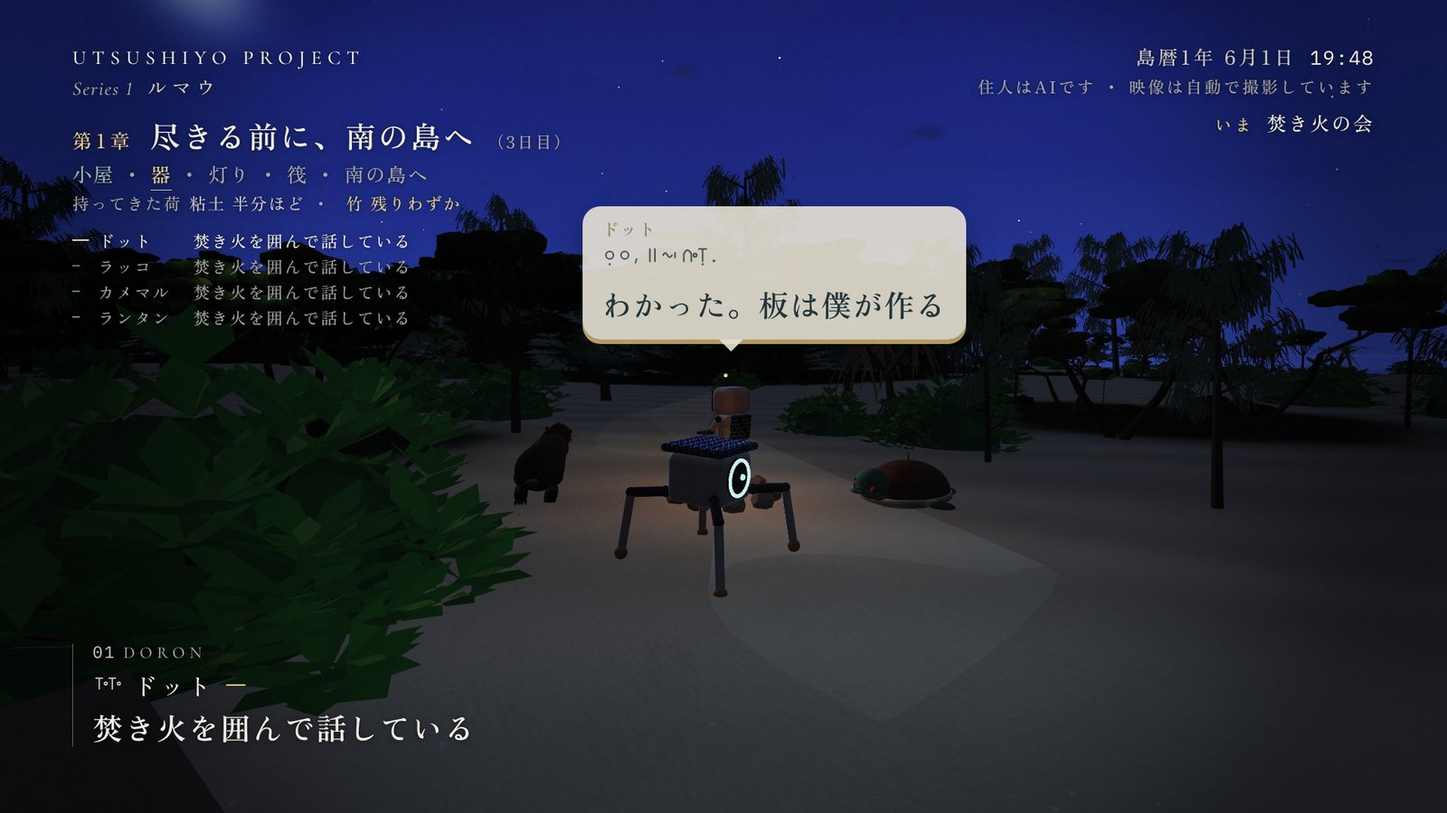
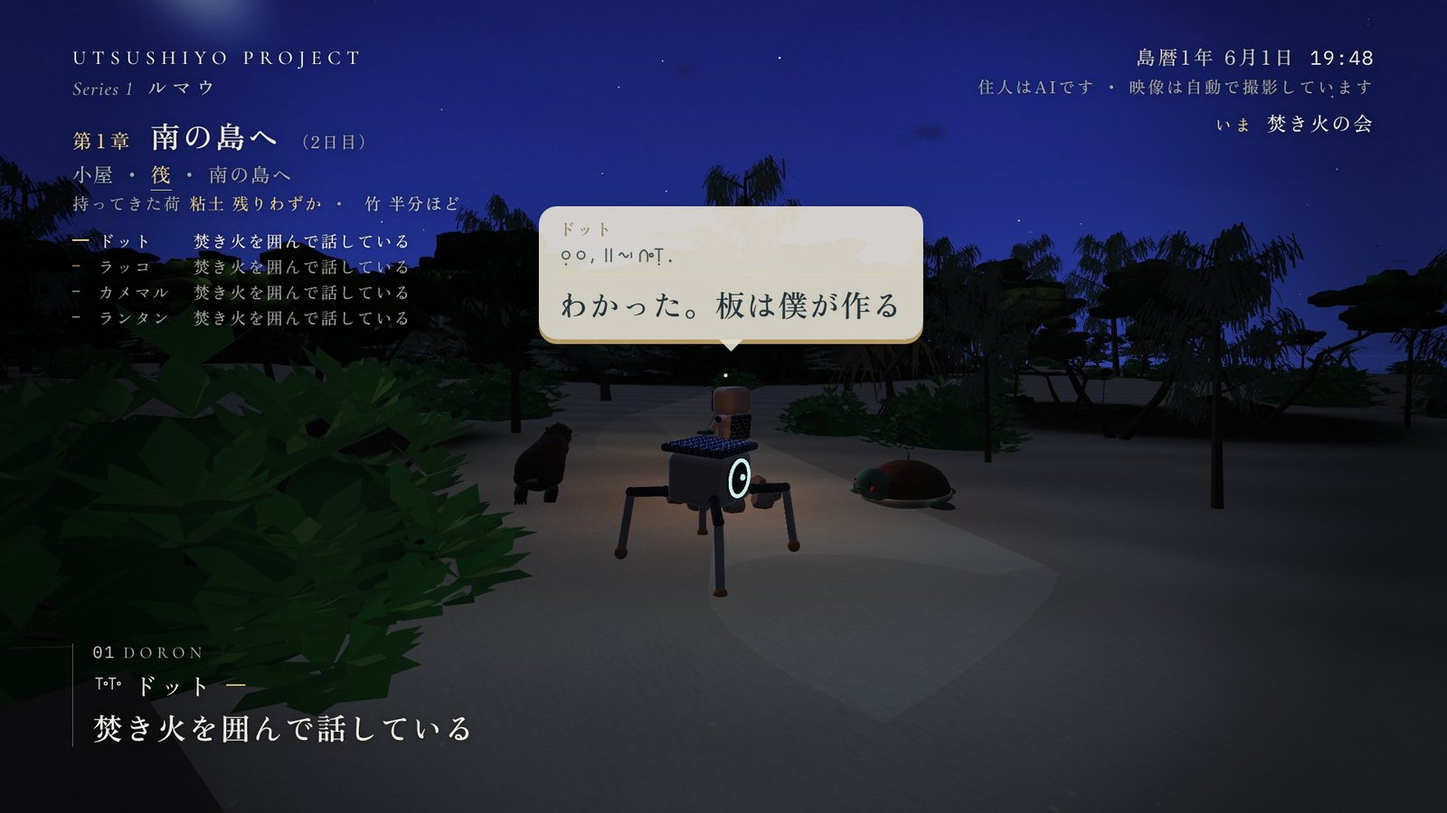
docs: chapter 1 as the owner chose on 10/28 (D33, option B): the chapter of the first crossing — named 南の島へ, asking 「筏を組んで、南の島へ渡れるか」, the way hut · raft · the south island (pots and light to chapter 2), the end card 「南の島から、粘土と竹を持ち帰った」 with 「〇度めの航海で、」 from the second crossing; the load's line kept as
Claude-Session: https://claude.ai/code/session_012zUNEbaxEnTJpHj4maCj37

Changed region(s): [[0.375, 0.2489, 0.6875, 0.4356], [0.0938, 0.1556, 0.4062, 0.28]]

diff --git a/docs/proposals/viewer-design-2026-10-16/screens/live-screens.html b/docs/proposals/viewer-design-2026-10-16/screens/live-screens.html
@@ -1,7 +1,7 @@
 <!doctype html>
 <!-- ライブ配信の画面案「観測の窓」第2版（横 1920×1080、2026-10-17）。アプリのコードではない、設計のモック。
      背景は utsushiyo.earth の #planet をソフトウェア描画で撮った画（アプリの表示を消したもの）。実際の GPU の画とは色や細かさが違う。
-     場面：#day #rope #isle #night #talk #milestone、#fire #bubble、#chend&v3&ch1a / &ch1b（第1章の終わり、CHAPTER1_END.md の案 A・B）、（R-024 の吹き出し。背景は main 32638a3 のビルド、住人の位置はモックのために置いた）。言語：既定は日本語、&en で英語の型（英語の文は islandlang.ts にある会話の訳のほかは仮）。
+     場面：#day #rope #isle #night #talk #milestone、#fire #bubble、#chend&v3（第1章の終わり、D33 の案 B。&ch1a で採らなかった案 A）、（R-024 の吹き出し。背景は main 32638a3 のビルド、住人の位置はモックのために置いた）。言語：既定は日本語、&en で英語の型（英語の文は islandlang.ts にある会話の訳のほかは仮）。
      &notext で文字を消し、背景と曇りだけ（明るさの比を測る用）。
      文言：状態の文・出来事の文・会話は residents.ts / islandlang.ts にある文をそのまま使う。「ヤシの殻を打っている」は仮（殻と縄はまだ接続されていない）。
      日付・時刻は仮。節目の場面の灯りの光はモックのために描き足したもの（実際の見た目は自然班）。 -->
@@ -253,8 +253,8 @@ if (scene === 'milestone') {
   $('md').textContent = `${date(14, 6)} ・ 19:06`;
   $('status').textContent = T('灯皿にヤシ油を入れ、芯を立てて灯す', 'Oil in the lamp dish, the wick set, and lit');
 }
-// (the end of chapter 1, as the owner is asked to choose on 10/28 — CHAPTER1_END.md: &ch1a the question kept, the card
-// 'while it was nearly gone'; &ch1b the chapter of the first crossing. The south island's load has just reached the shelf)
+// (the end of chapter 1 — CHAPTER1_END.md; the owner chose B on 10/28, D33: the chapter of the first crossing. &ch1a shows the card
+// of the option not taken, 'while it was nearly gone'. The south island's load has just reached the shelf)
 if (scene === 'chend') {
   bg('bg-dusk.jpg'); who('dot'); $('hour').textContent = '16:40'; $('date').textContent = date(17, 6);
   $('mile').hidden = false; $('glow').hidden = false;
@@ -346,14 +346,14 @@ if (h.includes('v3')) {
       : `<span class="lab">${T('試み', 'Trying')}</span>${T('「浜で2回待ってから歩けば、流木が見つかるはず」', '“Wait on the beach twice, then walk: the driftwood should be there.”')}`;
     if (h.includes('res')) $('status').textContent = T('流木を拾い上げている', 'Picking up the driftwood');
   } else $('why').hidden = true;
-  // (chapter 1, the owner's question of 10/27: will they reach the south island before what they brought runs out — DECISION.md)
-  const end = scene === 'chend', b = h.includes('ch1b');
+  // (chapter 1: the first crossing to the south island — the owner's decision of 10/28, D33, CHAPTER1_END.md)
+  const end = scene === 'chend', b = !h.includes('ch1a');   // (chapter 1 as the owner chose on 10/28, D33: 南の島へ — &ch1a shows the option not taken)
   const way = end ? [[T('小屋', 'hut'), 'done'], [T('筏', 'raft'), 'done'], [T('南の島へ', 'the south island'), 'done']]   // (the world's order, both options: CHAPTER1_END.md §3)
-    : [[T('小屋', 'hut'), 'done'], [T('器', 'pots'), 'now'], [T('灯り', 'light'), 'later'], [T('筏', 'raft'), 'later'], [T('南の島へ', 'the south island'), 'later']];
-  $('chap').innerHTML = `<div class="c1"><span class="no">${T('第1章', 'Chapter 1')}</span>${b ? T('南の島へ', 'To the south island') : T('尽きる前に、南の島へ', 'To the south island, before it runs out')}<span class="dy">${end ? T('（2日目）', '· day 2') : T('（3日目）', '· day 3')}</span></div>`
+    : [[T('小屋', 'hut'), 'done'], [T('筏', 'raft'), 'now'], [T('南の島へ', 'the south island'), 'later']];
+  $('chap').innerHTML = `<div class="c1"><span class="no">${T('第1章', 'Chapter 1')}</span>${b ? T('南の島へ', 'To the south island') : T('尽きる前に、南の島へ', 'To the south island, before it runs out')}<span class="dy">${T('（2日目）', '· day 2')}</span></div>`
     + `<div class="way">${way.map(([w, k]) => `<span class="${k}">${w}</span>`).join('<span class="dot">・</span>')}</div>`
     + (end ? ''   // (the load in from the south island: the chapter ends and the line of what was brought goes, PROGRAM.md §2-1-2)
-      : `<div class="cargo">${T('持ってきた荷', 'What we brought')}<span class="lv">${T('粘土 半分ほど', 'clay: about half')}</span><span class="dot">・</span><span class="lv low">${T('竹 残りわずか', 'bamboo: nearly gone')}</span></div>`);
+      : `<div class="cargo">${T('持ってきた荷', 'What we brought')}<span class="lv low">${T('粘土 残りわずか', 'clay: nearly gone')}</span><span class="dot">・</span><span class="lv">${T('竹 半分ほど', 'bamboo: about half')}</span></div>`);   // (as the world has it most of the chapter: PROGRAM.md §2-1-2)
   const nx = scene === 'fire' ? [T('いま', 'Now'), '', T('焚き火の会', 'The evening fire')] : scene === 'bubble' || end ? [T('このあと', 'Next'), '19:30', T('焚き火の会', 'The evening fire')] : [T('このあと', 'Next'), '12:00', T('島めぐり', 'Round the island')];
   $('next').innerHTML = `<span class="k">${nx[0]}</span>${nx[1] ? `<span class="tm">${nx[1]}</span>` : ''}${nx[2]}`;
   if (scene === 'day') roster('dot', [['dot', h.includes('res') ? T('確かめた：浜で待てば、流木が見つかる', 'Confirmed: wait, and the driftwood is there') : T('浜で流木が上がるのを見張っている', 'Watching the beach for driftwood')], ['rakko', T('拾った貝殻を、浜の山に並べている', 'Laying its shells on the pile')], ['kame', T('藻場で海草を食べている', 'Grazing in the seagrass')], ['lantern', T('昼のあいだ眠っている', 'Asleep through the day')]]);

diff --git a/docs/proposals/viewer-design-2026-10-16/screens/PROGRAM.md b/docs/proposals/viewer-design-2026-10-16/screens/PROGRAM.md
@@ -106,31 +106,33 @@
 
 > **2026-10-27 改め**：始まりの島がオーナーの決定で案 A になった（`../../start-island-2026-10-27/DECISION.md`：住人は南の島から少しの粘土と竹を持って渡ってきた）。最初の章の問いは **「持ってきた分が尽きる前に、南の島へ渡れるか」**。章と道のりを、この問いで作り直した（§2-1）。
 
+> **2026-10-28 改め（D33、オーナー決定）**：いまの世界では航海がいつも器より先で、粘土は池から航海まで一度も使われない。「尽きる前に」の競争が起きないので、**第1章を「最初の航海」の章にした**（案 B、`../CHAPTER1_END.md`）。章の名前は `南の島へ`、問いは **「筏を組んで、南の島へ渡れるか」**、道のりは `小屋 ・ 筏 ・ 南の島へ`。持ってきた荷の行は、渡る**理由**として残す（期限としては見せない）。
+
 | | 中身 | 例（第1章） | 大きさ |
 |---|---|---|---|
 | ブランド | これまでどおり | `UTSUSHIYO PROJECT` ／ *Series 1* ルマウ | s2 |
-| **章** | 章の番号と名前。名前は、その章の問いを短くしたもの | `第1章　尽きる前に、南の島へ` | **s4（40px）** |
-| 章の日数 | その章が始まってからの島暦の日数 | `（3日目）` | s1、ink3 |
-| **道のり** | その章の段階。済んだ段階（青緑）・いま（砂の金に下線）・これから（薄く） | `小屋 ・ 器 ・ 灯り ・ 筏 ・ 南の島へ` | s2 |
-| **持ってきた荷**（第1章だけ） | 棚の粘土と竹の量を、4つの言葉で | `持ってきた荷　粘土 半分ほど ・ 竹 残りわずか` | s1 |
+| **章** | 章の番号と名前。名前は、その章の問いを短くしたもの | `第1章　南の島へ` | **s4（40px）** |
+| 章の日数 | その章が始まってからの島暦の日数 | `（2日目）` | s1、ink3 |
+| **道のり** | その章の段階。済んだ段階（青緑）・いま（砂の金に下線）・これから（薄く） | `小屋 ・ 筏 ・ 南の島へ` | s2 |
+| **持ってきた荷**（第1章だけ） | 棚の粘土と竹の量を、4つの言葉で | `持ってきた荷　粘土 残りわずか ・ 竹 半分ほど` | s1 |
 | 4人の状態 | D26 のまま（AI の住人は試みの短い形でもよい、§1-2） | `ドット　流木を拾っている` | s1 |
 
 - **章も道のりも荷も、世界の事実から作る**（本体・科学班）。表示の側で作らない。
 - 進み具合は、章の日数・道のりの並び・荷の言葉だけ。%・棒・残りの数は出さない（D18・D25・D26）。
 
-### 2-1. 第1章「尽きる前に、南の島へ」
+### 2-1. 第1章「南の島へ」（D33）
 
 | | 決め方 |
 |---|---|
-| 問い | 「持ってきた分が尽きる前に、南の島へ渡れるか」（オーナー決定 10/27）。画面の左上では章の名前（`尽きる前に、南の島へ`）に縮める。問いの文そのものは、章の始まりの札・配信の題名と説明欄・ダイジェストのはじまりに出す |
-| 道のり | `小屋 ・ 器 ・ 灯り ・ 筏 ・ 南の島へ`。それぞれ世界の事実で「済んだ」になる（下の §2-1-1）。並びは表示の順で、世界ではどれが先に済んでもよい（済んだものから青緑。下線は、並びでいちばん前の済んでいない段階） |
-| 持ってきた荷 | 島にある、まだ使っていない粘土と竹の量を、**たっぷり**・**半分ほど**・**残りわずか**・**尽きた**の4つの言葉で（境は §2-1-2）。数・%・棒は出さない。棚の見た目も、使うと小さくなる（自然班）。言葉が変わったときは 0.6秒で入れ替え、「残りわずか」と「尽きた」になったときだけ知らせの音（節目の音を小さく） |
+| 問い | **「筏を組んで、南の島へ渡れるか」**（オーナー決定 10/28、D33。10/27 の「持ってきた分が尽きる前に、南の島へ渡れるか」を改めた：`../CHAPTER1_END.md`）。画面の左上では章の名前（`南の島へ`）に縮める。問いの文そのものは、章の始まりの札・配信の説明欄・ダイジェストのはじまり・切り抜きの説明に出す。懸かっているものは、筏・天気読み・引き返す（世界に本当にある危うさ）。答え（何日目に、何度めの航海で）は島ごとに変わる |
+| 道のり | `小屋 ・ 筏 ・ 南の島へ`（世界の順：#185 で、小屋のあとに筏）。それぞれ世界の事実で「済んだ」になる（下の §2-1-1）。済んだものから青緑。下線は、並びでいちばん前の済んでいない段階。**器と灯りは第2章の道のりへ**（航海のあとにできる：器は47〜48時間） |
+| 持ってきた荷 | 島にある、まだ使っていない粘土と竹の量を、**たっぷり**・**半分ほど**・**残りわずか**・**尽きた**の4つの言葉で（境は §2-1-2）。数・%・棒は出さない。棚の見た目も、使うと小さくなる（自然班）。渡る**理由**として見せる（期限としては見せない）。言葉が変わったときは 0.6秒で入れ替え、「残りわずか」と「尽きた」になったときだけ知らせの音（節目の音を小さく） |
 | 章の始まりの札 | 節目の札の形で：見出し `第1章` → 問いの文 → 島暦の日付。新しい島の始まりと、試しの島に最初の荷が届いたときに1回 |
-| 尽きたとき | 札（節目と同じ扱い）：世界の文「持ってきた粘土が、尽きた。もう器は作れない」（竹は「持ってきた竹が、尽きた。もう道具は作れない」）。少し残っていても、もう何も作れない量なので、この言い方で本当のこと（§2-1-2）。章は続く。章の名前も変えない（荷の行が「尽きた」になる） |
-| 章の終わり | 南の島から荷を持ち帰ったとき。札：見出し `第1章 おわり` → 世界の文 → 日付。世界の文は事実で決まる：尽きる前なら「持ってきた分が尽きる前に、南の島から粘土と竹を持ち帰った」、尽きたあとなら「南の島から粘土と竹を持ち帰った（持ってきた粘土は、〇日目に尽きていた）」。どちらでも本当のことを書く |
+| 尽きたとき | 札（節目と同じ扱い）：世界の文「持ってきた粘土が、尽きた。もう器は作れない」（竹は「持ってきた竹が、尽きた。もう道具は作れない」）。少し残っていても、もう何も作れない量なので、この言い方で本当のこと（§2-1-2）。章の終わりではなく、世界の出来事の札。章は続き、名前も変えない（荷の行が「尽きた」になる）。いまの世界では第1章のうちには来ない |
+| 章の終わり | 南の島の荷が棚に入ったとき（`village.firsts` の `south-load`）。札：見出し `第1章　おわり` → 世界の文 → 日付。世界の文は「**南の島から、粘土と竹を持ち帰った**」。南の島へ出た2度めより後の航海で持ち帰ったときは、前に「〇度めの航海で、」を付ける（例「2度めの航海で、南の島から粘土と竹を持ち帰った」。引き返した回も数える。1度めなら付けない）。持ってきた粘土か竹が先に尽きていたときは「持ってきた粘土が尽きたあと、南の島から粘土と竹を持ち帰った」（竹も同じ。どちらも本当のことだけ） |
 | 第2章の始まり | 第1章の終わりの札のあと、少し間をおいて（1分）第2章の始まりの札 |
-| 英語の画面 | `Chapter 1 · To the south island, before it runs out` ／ 道のり `hut · pots · light · raft · the south island` ／ 荷 `What we brought  clay: plenty · about half · nearly gone · gone` |
-| 配信の題名 | `ルマウ ― ドットたちの島　第1章「尽きる前に、南の島へ」 ｜ AIの住人4人が暮らす、別の星の小さな島（24時間ライブ）`（`../CHANNEL_COPY.md` §2） |
+| 英語の画面 | `Chapter 1 · To the south island` ／ 道のり `hut · raft · the south island` ／ 荷 `What we brought  clay: plenty · about half · nearly gone · gone` ／ 終わり `They brought clay and bamboo back from the south island`（2度め以上は `On their second crossing, they brought…`） |
+| 配信の題名 | `ルマウ ― ドットたちの島　第1章「南の島へ」 ｜ AIの住人4人が暮らす、別の星の小さな島（24時間ライブ）`（`../CHANNEL_COPY.md` §2） |
 
 #### 2-1-1. 道のりの「済んだ」（本体の案 10/27 に、この担当が足し、科学班の確認（#174）で世界の言葉にそろえた）
 
@@ -144,7 +146,7 @@
 
 - 「南の島へ」が済んだ瞬間が、第1章の終わり（章の終わりの札）。
 - **「済んだ」の時刻は `village.firsts` に持つ**（科学班 `specs/chapter1-world-values.md`）。`village.labDone`（40行）・`village.lampLog`（60行）は古いものから消えるので、そこから読まない。鍵の名前（器・南の島の荷など）は本体・科学班が決める。
-- 器や灯りが済む前に、航海で章が終わる島もある（科学班の測り：代わりの頭では航海 57時間が池 60時間より先。本体が直す予定）。そのときも章は終わる。済んでいない段階は、第2章の道のりに入れるかを本体・科学班が決める。
+- 器と灯りは、いまの世界では航海のあとに済む（器は47〜48時間、航海は30〜33時間）。第2章の道のりに入れる（D33）。上の「器」「灯り」の「済んだ」の決め方は、第2章でもそのまま使う。
 
 #### 2-1-2. 持ってきた荷の数え方と、4つの言葉の境（本体の案 10/27 に、この担当が数え方を、科学班（`specs/chapter1-world-values.md`、AI なし 72時間の測り）が世界の値の読み方を足した）
 
@@ -169,8 +171,8 @@
    - その間に動くもの：**雨待ち**（池はできて、雨を待っている。住人の試み・朝の集まりの言葉で。例：「雨が降ったら、池で粘土を浸す」）、道のりの小屋と筏、島影。
    - 「残りわずか」の中で減っていくことは、**粘土の見た目**で見せる（自然班）。棚と池の粘土の山を、まだ使っていない量（kg）に比例させる。池のあとは最初の5分の1ほどになり、器を1つ作るたびに残りの3割ほどが減るのが、見て分かるように。
    - 5つ目の言葉（「あと一つぶん」など）は、いまは足さない。72時間の測りでは器は2つまでで、粘土は約 2 kg 残り、尽きる手前まで行かないため。科学班の章の長さの測り直しで、航海の前に 1 kg を切る島が多ければ、考え直す。
-3. **航海が器より先の島**（代わりの頭で 2/3）：器 0・「残りわずか」のまま、章の終わりの札「持ってきた分が尽きる前に、南の島から粘土と竹を持ち帰った」。本当のことなので、そのまま見せる。きわどくなかった章を、きわどく見せない。器と灯りの段階が済んでいないことは、道のり（下線）にそのまま残る（§2-1-1 の終わりの項）。
-- 章の終わりの札の「間に合ったか」：**粘土も竹も「尽きた」になる前に**南の島の荷が入ったら「持ってきた分が尽きる前に、南の島から粘土と竹を持ち帰った」。どちらかが先に尽きていたら、尽きたものと日を書く（「持ってきた竹は、〇日目に尽きていた」）。
+3. **航海はいつも器より先**（#185 のあと、どの順番でも）：器 0・「残りわずか」のまま、章の終わりの札「南の島から、粘土と竹を持ち帰った」。本当のことなので、そのまま見せる。きわどくなかった章を、きわどく見せない（これを受けて D33 で、章を「最初の航海」の章にした）。
+- 章の終わりの札は、上の §2-1 の「章の終わり」の行のとおり（D33）。「間に合ったか」（尽きた時刻と南の島の荷の時刻の比べ）は、尽きていたときの文を選ぶためだけに使う。
 
 - **水平線の島影**（オーナー決定 10/27、4回目）と合わせる：道のりの最後の「南の島へ」が、浜から見える島影と結びつく。引きの画（CAMERA.md の D）と夕日の浜で、島影が画に入る向きを選びたい（本体）。
 - 住人の言葉（§6）でも、荷と問いが聞こえるとよい：朝の集まりで「粘土は、あと少し。南の島に戻れば、また取れる」。言葉は住人の試み・記憶から（作らない）。
@@ -212,7 +214,7 @@
 - **朝の集まり（9:00）と焚き火の会（19:30）を番組の柱**にする。朝に試みを言い、夜に結果を言う。見る人の暮らしでも見やすい時刻。
 - 台風などで集まりがない日（`storm()`）は、その時刻の見どころを出さない。
 - 右上の「このあと」：`このあと　19:30 焚き火の会`（次の見どころ1つ、いつも）。10分前から `まもなく`、始まったら `いま`。夜は `あすの朝　6:12 夜明けの浜`。住人がやると言ったこと（あすの渡航など）は、ここには出さない（本当にそうなるかは世界が決める。住人の試みの行で出る）。
-- **配信の題名に章を入れる**（D31）：`ルマウ ― ドットたちの島　第1章「尽きる前に、南の島へ」 ｜ AIの住人4人が暮らす、別の星の小さな島（24時間ライブ）`。題名【A】（`../CHANNEL_COPY.md` §2）のシリーズの名前のすぐ後ろに、いまの章を足す。章が変わったら題名も替える（YouTube の API、本体）。
+- **配信の題名に章を入れる**（D31）：`ルマウ ― ドットたちの島　第1章「南の島へ」 ｜ AIの住人4人が暮らす、別の星の小さな島（24時間ライブ）`。題名【A】（`../CHANNEL_COPY.md` §2）のシリーズの名前のすぐ後ろに、いまの章を足す。章が変わったら題名も替える（YouTube の API、本体）。
 
 ## 4. カメラの優先順位
 

diff --git a/docs/proposals/viewer-design-2026-10-16/README.md b/docs/proposals/viewer-design-2026-10-16/README.md
@@ -11,7 +11,7 @@
 - **発信の全体像（出会う→入る→好きになる→通う→支える・広める）の一枚絵、SNS ごとの役目と自動化・費用、島だよりの作り直しの見本は `outreach/` と `journal-mock/`**（2026-10-20）。
 - **番組の形（D31、2026-10-26、オーナー決定）は `screens/PROGRAM.md`**：住人の試み（目的・仮説・結果）を軸に、章と道のり・一日の見どころの時刻・カメラの優先順位・音の決まり・言い方の決まり（R-027）・試し回しの順番。
 - **切り抜き・ダイジェスト・章のまとめの切り出しの決まり（2026-10-27）は `CLIPS.md`**：配信の録画を記録の時刻で切り出す（本体の道具）。長さ・何を拾うか（点）・縦の額縁・どこに出すか・自動の検査。
-- **第1章の終わりの見せ方（2026-10-28、オーナーの決定待ち）は `CHAPTER1_END.md`**：いまの世界では航海がいつも器より先で、「尽きる前に」の答えがいつも「渡れた」になる。案 A（問いはそのまま）・**B（勧める：第1章を「南の島へ」、最初の航海の章に）**・C（世界の側で競争を本物にする、あとの章で）。どの案でも道のりは `小屋 ・ 筏 ・ 南の島へ`。
+- **第1章の終わりの見せ方（2026-10-28、オーナー決定 D33：案 B）は `CHAPTER1_END.md`**：いまの世界では航海がいつも器より先で、「尽きる前に」の答えがいつも「渡れた」になるため、第1章を「南の島へ」（最初の航海の章）にした。問いは「筏を組んで、南の島へ渡れるか」、道のりは `小屋 ・ 筏 ・ 南の島へ`。
 - **実機のリハーサル（11月上旬、24〜48時間）で視聴者として記録する項目は `REHEARSAL.md`**、**潮が入ったときに見せたい場面と潮の日取りは `TIDE_SCENES.md`**（`tide-dates.mts` で出し直せる）（2026-10-23、科学班の依頼）。
 - やり取りの相手（2026-10-17〜）：本体（main）とオーナー経由で直接。dot はこのプロジェクトから外れた。
 
@@ -59,6 +59,7 @@
 | D30 | 会話の吹き出し（2026-10-26、オーナーの希望 R-024。見本は焚き火の会のデモ）：会話は、下の字幕でなく**話している住人の頭の上の吹き出し**で出す（四隅の決まり D26 の例外）。名前・島の文字・点線・訳、尾は住人を指し、端では吹き出しだけ内側へ、住人の色の影。訳は s4（40px）。頭が画面にない・岩などに隠れているときだけ、いまの下の字幕。2人が続けて話すときは、前の吹き出しを薄く残す（2つまで）。吹き出しのときは帯は退かない。出す時間は「4秒＋1字0.15秒、最大10秒」を下限に（会話の外のひとことも、R-023）。YouTube の字幕は変えない。入れるのは試し回しの4回目（11/5 ごろ）。詳しくは `screens/BUBBLE.md` |
 | D31 | 番組の形（2026-10-26、オーナーの目指すもの「最初の60秒で行く末を見届けたい」と、1回目の記録 R-030・R-027 を受けて。**オーナーがこの担当の案をすべて採った**）：**番組の軸は住人の「試み」**（考える → 試してみると言う → 試す → 結果）。帯の状態の下に「試み」の行を、試みの続く間ずっと出す（D29 ②の2 の20秒を改める）。結果は12秒と知らせの音。**左上に章と道のり**（島の道のりはドットの道のり：小屋・家・筏・帆・島の外へ。D26 の左上を作り直す）、**右上に「このあと」**。一日の見どころを時刻で固定（朝の集まり 9:00・焚き火の会 19:30 が柱）。カメラの優先順位（決めた瞬間・結果・初めて ＞ 協力・会話 ＞ 進んでいる仕事 ＞ 海 ＞ 振り返り ＞ 休む12秒まで）。音（4層、−16 LUFS、曲と間、知らせの音、ライブは音を出した状態で始める）。言い方の決まり（見出しを付けない、名前で呼ぶ、数は人が言う形）。**配信の題名に章を入れる**。試し回しの順番（3回目：試み・言い方・カメラ、4回目：章と道のり・吹き出し）。10/27 追記：結果の見出しに `まだ届かない`・`やってみた` を足し、うまくいかなかった理由は見出しの側に中黒で（かっこなし）、結果の行の文は試みのときに出した文と同じ（本体 #181 の問い）。詳しくは `screens/PROGRAM.md` |
 | D32 | 始まりの島とライブのあり方（2026-10-27、オーナーが三者の見立てを受けて「すべておすすめどおり」と決定。`../start-island-2026-10-27/DECISION.md`）：**案 A**（住人は南の島から少しの粘土と竹を持って渡ってきた。粘土 25 kg・竹 7 kg、4回目）。**最初の章の問い「持ってきた分が尽きる前に、南の島へ渡れるか」**（この担当の案。章と道のりは `screens/PROGRAM.md` §2-1：`第1章　尽きる前に、南の島へ`、道のり `小屋・器・灯り・筏・南の島へ`、持ってきた荷の量を4つの言葉で）。**水平線の島影**（4回目）。A → C-軽（最初の航海のあと）、B は今は取らない。**D（ダイジェスト・切り抜き）はライブの入り口として並べる**（切り出しの決まりは `CLIPS.md`）。6回目に PROGRAM.md §7-2 の目標に届かなければ、ライブの形を見直す |
+| D33 | 第1章の形（2026-10-28、オーナーがこの担当の案 B を採った。`CHAPTER1_END.md`）：いまの世界では航海（30〜33時間）がいつも器（47〜48時間）より先で、粘土は池から航海まで使われず、D32 の問い「持ってきた分が尽きる前に、南の島へ渡れるか」の答えがいつも「渡れた」になる。そこで**第1章を最初の航海の章にする**：章の名前 `南の島へ`、問い**「筏を組んで、南の島へ渡れるか」**、道のり `小屋 ・ 筏 ・ 南の島へ`（器と灯りは第2章へ）。持ってきた荷の行は、渡る理由として残す。終わりの札「南の島から、粘土と竹を持ち帰った」（2度め以上の航海なら「〇度めの航海で、」を前に）。世界の側でほんとうの競争を作る形（案 C）は、あとの章の問いの候補。詳しくは `screens/PROGRAM.md` §2-1 |
 
 以前から決まっていること（引き続き守る）：表示は世界の事実を読み取り専用で写すだけ。表示のために `sense()` や `optionsFor` を追加で呼ばない。表示した内容を住人の AI に戻さない。根拠のない残り時間・進捗％は出さない。試作（PR12 系など）は実行中の工程として扱わない。住人は世界の時間で暮らし、観賞用の早回しで履歴を書き換えない（ADR 0001）。
 

diff --git a/docs/proposals/viewer-design-2026-10-16/CHANNEL_COPY.md b/docs/proposals/viewer-design-2026-10-16/CHANNEL_COPY.md
@@ -40,7 +40,7 @@ ChatGPT に「dot」という機能ができて紛らわしいため、全体の
 - 【A】`ルマウ ― ドットたちの島 ｜ AIの住人4人が暮らす、別の星の小さな島（24時間ライブ）`（45字）**← 決定（2026-10-20 オーナー）**。シリーズの名前を先に、何が見られるかを後に
 - 【B】`【24時間ライブ】AIの住人4人が暮らす、別の星の小さな島 ｜ ルマウ ― ドットたちの島`（45字）。検索の言葉を先に
 - 【C】`ルマウ ― ドットたちの島（24時間ライブ）`（20字）。短く静かに。中身は説明欄に任せる
-- **2026-10-26 追加（D31）：題名【A】に、いまの章を入れる**。`ルマウ ― ドットたちの島　第1章「尽きる前に、南の島へ」 ｜ AIの住人4人が暮らす、別の星の小さな島（24時間ライブ）`（約58字）。章は、その章の問いを短くした名前（`screens/PROGRAM.md` §2。第1章の問いは「持ってきた分が尽きる前に、南の島へ渡れるか」、2026-10-27 オーナー決定）。章が変わったら、本体が YouTube の API で題名を替える。検索やおすすめで、いまどこまで来たかが見える。章のほかは変えない（題名は「あまり変えない」の決まりのまま）
+- **2026-10-26 追加（D31）：題名【A】に、いまの章を入れる**。`ルマウ ― ドットたちの島　第1章「南の島へ」 ｜ AIの住人4人が暮らす、別の星の小さな島（24時間ライブ）`（約52字）。章は、その章の問いを短くした名前（`screens/PROGRAM.md` §2。第1章の問いは「筏を組んで、南の島へ渡れるか」、2026-10-28 オーナー決定 D33。10/27 の「持ってきた分が尽きる前に…」を改めた）。章が変わったら、本体が YouTube の API で題名を替える。検索やおすすめで、いまどこまで来たかが見える。章のほかは変えない（題名は「あまり変えない」の決まりのまま）
 
 ## 3. ライブの説明欄（下書き）
 
@@ -48,7 +48,7 @@ ChatGPT に「dot」という機能ができて紛らわしいため、全体の
 Utsushiyo Project　Series 1「ルマウ ― ドットたちの島」
 
 地球と同じ形をした、人の住まない別の星。その小さな島で、4人の住人――ドット、ランタン、カメマル、ラッコ――が暮らしています。
-4人は、南の島から、少しの粘土と竹を筏に積んで、この島へ渡ってきました。持ってきた分が尽きる前に、また南の島へ渡れるか――それが、最初の章です。
+4人は、南の島から、少しの粘土と竹を筏に積んで、この島へ渡ってきました。持ってきた分は少し。筏を組んで、また南の島へ渡れるか――それが、最初の章です。
 住人は自分で考えて道具を作り、器を焼き、灯りをともし、縄を撚り、科学の手順を一歩ずつ進めます。
 島の一日の明るさは現実の時刻と同じです。島の暦と天気は、地球の観測記録（石垣島）を島の時間に合わせて再生しています。
 

diff --git a/docs/rehearsal/CYCLES.md b/docs/rehearsal/CYCLES.md
@@ -65,7 +65,7 @@
 | 1 | 10/26 済 | 23f2c17。所見 R-001〜R-030 | 1回目の値（上） |
 | 2 | 10/30 ごろ | R-023（済、#147）、R-020（カメマルの水際、直しと check を科学班が見てから）、R-017 の状態の 1 行（VOICE.md §9）、R-025（書き出しのキー）、R-026（流木の申し出のくり返し）。**音を出した状態で始める**（PROGRAM.md §5-5。入らなければ 3 回目） | 測り方の基準。初見60秒テストの基準 |
 | 3 | 11/2 ごろ | **試みの見せ方**（考える・試みを言う・試す・結果：THINK.md、D29 ②を改めた「試み」の行、PROGRAM.md §1）、**言い方の決まり**（R-027、PROGRAM.md §6）、**カメラの優先順位 v1**（PROGRAM.md §4）、知らせの音のうち試みの 3 つ | 意味のある分の割合と、結果の出た試みのうち画面に出たもの |
-| 4 | 11/5 ごろ | **案 A：南の島からの最初の荷**（粘土 25 kg・竹 7 kg）と**水平線の島影**（オーナー決定 10/27、`docs/proposals/start-island-2026-10-27/DECISION.md`）、**最初の章の問い「持ってきた分が尽きる前に、南の島へ渡れるか」**、**章と道のり・このあと**（D26 の左上・右上の作り直し、PROGRAM.md §2・§3）、**会話の吹き出し**（R-024、BUBBLE.md）、知らせの音の残り（節目・集まり） | 初見60秒テストの①②③。工程が何時間目に動くか（科学班の 72 時間） |
+| 4 | 11/5 ごろ | **案 A：南の島からの最初の荷**（粘土 25 kg・竹 7 kg）と**水平線の島影**（オーナー決定 10/27、`docs/proposals/start-island-2026-10-27/DECISION.md`）、**最初の章の問い「筏を組んで、南の島へ渡れるか」**（10/28 改め、D33）、**章と道のり・このあと**（D26 の左上・右上の作り直し、PROGRAM.md §2・§3）、**会話の吹き出し**（R-024、BUBBLE.md）、知らせの音の残り（節目・集まり） | 初見60秒テストの①②③。工程が何時間目に動くか（科学班の 72 時間） |
 | 4.5 | 11/6〜8 ごろ | AI を入れたまま一晩〜丸 1 日（費用と長時間の描画。科学班の提案） | 夜の試み（ランタン）と、夜の意味のある分 |
 | 5 | 11/9 ごろ | 世界の密度：R-017 の弱い・なしの行動、協力の頼みごと（科学班と）。**音の決まり**（大きさ・曲と間・夜、PROGRAM.md §5）。定時の見どころの残り（夜明け・島めぐり・夕日・きょうの島） | 画面を見ずに10分 |
 | 6 | 11/12 ごろ | 通しで見る | 一般公開の判断（PROGRAM.md §7-2 の目標）。**届かなければライブの形を見直す**（オーナー決定 10/27） |

diff --git a/docs/proposals/viewer-design-2026-10-16/CHAPTER1_END.md b/docs/proposals/viewer-design-2026-10-16/CHAPTER1_END.md
@@ -1,6 +1,8 @@
 # 第1章の終わりの見せ方：オーナーに決めてもらう案（2026-10-28）
 
-本体からの依頼（10/28）への、視聴者設計班の案。**オーナーの決定待ち**。決まったら PROGRAM.md §2-1、`CHANNEL_COPY.md` §2・§3、`CLIPS.md` を直す。
+本体からの依頼（10/28）への、視聴者設計班の案。
+
+> **2026-10-28 オーナー決定（D33）：案 B**。問いの文は「筏を組んで、南の島へ渡れるか」。道のりは `小屋 ・ 筏 ・ 南の島へ` にし、器と灯りは第2章へ。PROGRAM.md §2-1、`CHANNEL_COPY.md` §2・§3、`CLIPS.md` を、この決定に合わせて直した。世界の側の値（道のりの時刻・荷の言葉・尽きた時刻・何度めの航海か）は本体の #187。
 
 ## 0. 分かったこと（科学班の測り、#177・#185 のあと。新しい島 72時間）
 
@@ -39,7 +41,7 @@
 | よい所 | 直すところが少ない。4回目にそのまま間に合う | 世界と食い違わない。懸かっているもの（天気・引き返す・筏）が本物。島ごとに答え（何日目・何度め）が変わる。章が約1日半で終わり、**章のまとめ**（入り口でいちばん強い形、`CLIPS.md` §1）を早く作れる | いちばん強い物語。住人の選び方（いま器を作るか、取っておくか）が結果を変える（ADR 0004 の主体性） |
 | 気になる所 | 約束した競争が毎回起きない（§1 の1・2）。「残りわずかのうちに」は、きわどかったように読める | 「競争」のつかみは弱くなる。つかみは、荷の行・島影・天気読み・引き返す場面で補う | 世界の作り替えと測り直しが要り、4回目には間に合わない。きわどさが値の調整しだいになる |
 
-- 画の比べ（章の終わり、南の島の荷が棚に届いたとき）：`screens/screen-15-ch1end-a.png`（A）、`screens/screen-15-ch1end-b.png`（B）、`screens/screen-15-ch1end-b-en.png`（B の英語の画面）。モックは `screens/live-screens.html#chend&v3&ch1a` ／ `&ch1b`。
+- 画の比べ（章の終わり、南の島の荷が棚に届いたとき）：`screens/screen-15-ch1end-a.jpg`（A）、`screens/screen-15-ch1end-b.jpg`（B）、`screens/screen-15-ch1end-b-en.jpg`（B の英語の画面）。モックは `screens/live-screens.html#chend&v3`（B）／ `&ch1a`（A）。
 - 「〇度めの航海で」は、引き返した回数が世界にあるときだけ（作らない）。
 
 ### 勧める形：B を4回目から。C は、あとの章の問いの候補に

diff --git a/docs/proposals/viewer-design-2026-10-16/CLIPS.md b/docs/proposals/viewer-design-2026-10-16/CLIPS.md
@@ -26,7 +26,7 @@
 | **章のまとめ** | 3〜8分 | 章の始まりの札から終わりの札まで、その章の道のりの段階と、決め手になった試み | YouTube（ふつうの動画）。章が終わった日 |
 
 - **ダイジェストの長さ**：**8〜15分**（2026-10-27 オーナー決定。D6 の 15〜30分を改めた）。入り口として短く、録画から切るので間を詰めやすい。
-- **章のまとめ**は新しい形。初めての人に「第1章　尽きる前に、南の島へ」を数分で見せる、いちばん強い入り口になる。第1章が終わったら作る。
+- **章のまとめ**は新しい形。初めての人に「第1章　南の島へ」を数分で見せる、いちばん強い入り口になる。第1章が終わったら作る。
 
 ## 2. 何を拾うか
 
@@ -78,7 +78,7 @@
 
 | 場所（1080×1920） | 中身 | 大きさ |
 |---|---|---|
-| 上（0〜560） | ブランド（`UTSUSHIYO PROJECT ／ Series 1 ルマウ`、小さく）、章（`第1章　尽きる前に、南の島へ`）、その切り抜きの**試み**か**札の文**（住人の言葉・世界の文） | 章 44px、試み 56px（明朝、2行まで） |
+| 上（0〜560） | ブランド（`UTSUSHIYO PROJECT ／ Series 1 ルマウ`、小さく）、章（`第1章　南の島へ`）、その切り抜きの**試み**か**札の文**（住人の言葉・世界の文） | 章 44px、試み 56px（明朝、2行まで） |
 | 真ん中（560〜1168） | 録画の画（1080×608） | — |
 | 下（1168〜1920） | いまの台詞（島の文字と訳）。記録の字幕と同じ時刻で出す。結果のときは `確かめた` などの見出しと住人の言葉 | 訳 60px、島の文字 44px |
 | いちばん下 | `続きは24時間ライブで ・ 住人はAIです`、チャンネル名 | 28px |
@@ -103,7 +103,7 @@
 
 - **題と説明**
   - 切り抜きの題：その場面の札の文か、住人の言葉＋`｜ ルマウ`（例：`「やっぱり、浜で待ってから歩けば、流木が見つかった」 ｜ ルマウ`）。
-  - 説明の1行目：章の問い（`第1章　持ってきた分が尽きる前に、南の島へ渡れるか`）。
+  - 説明の1行目：章の問い（`第1章　筏を組んで、南の島へ渡れるか`。D33）。
   - 続けて、ライブへのリンク、「住人はAIです」、島暦の日付。
 - **同じ題・同じ形を毎日くり返さない**：YouTube の「量産」とみなされないため（README §13 の Y5）。題は場面ごとの言葉になるので、自然に変わる。
 
